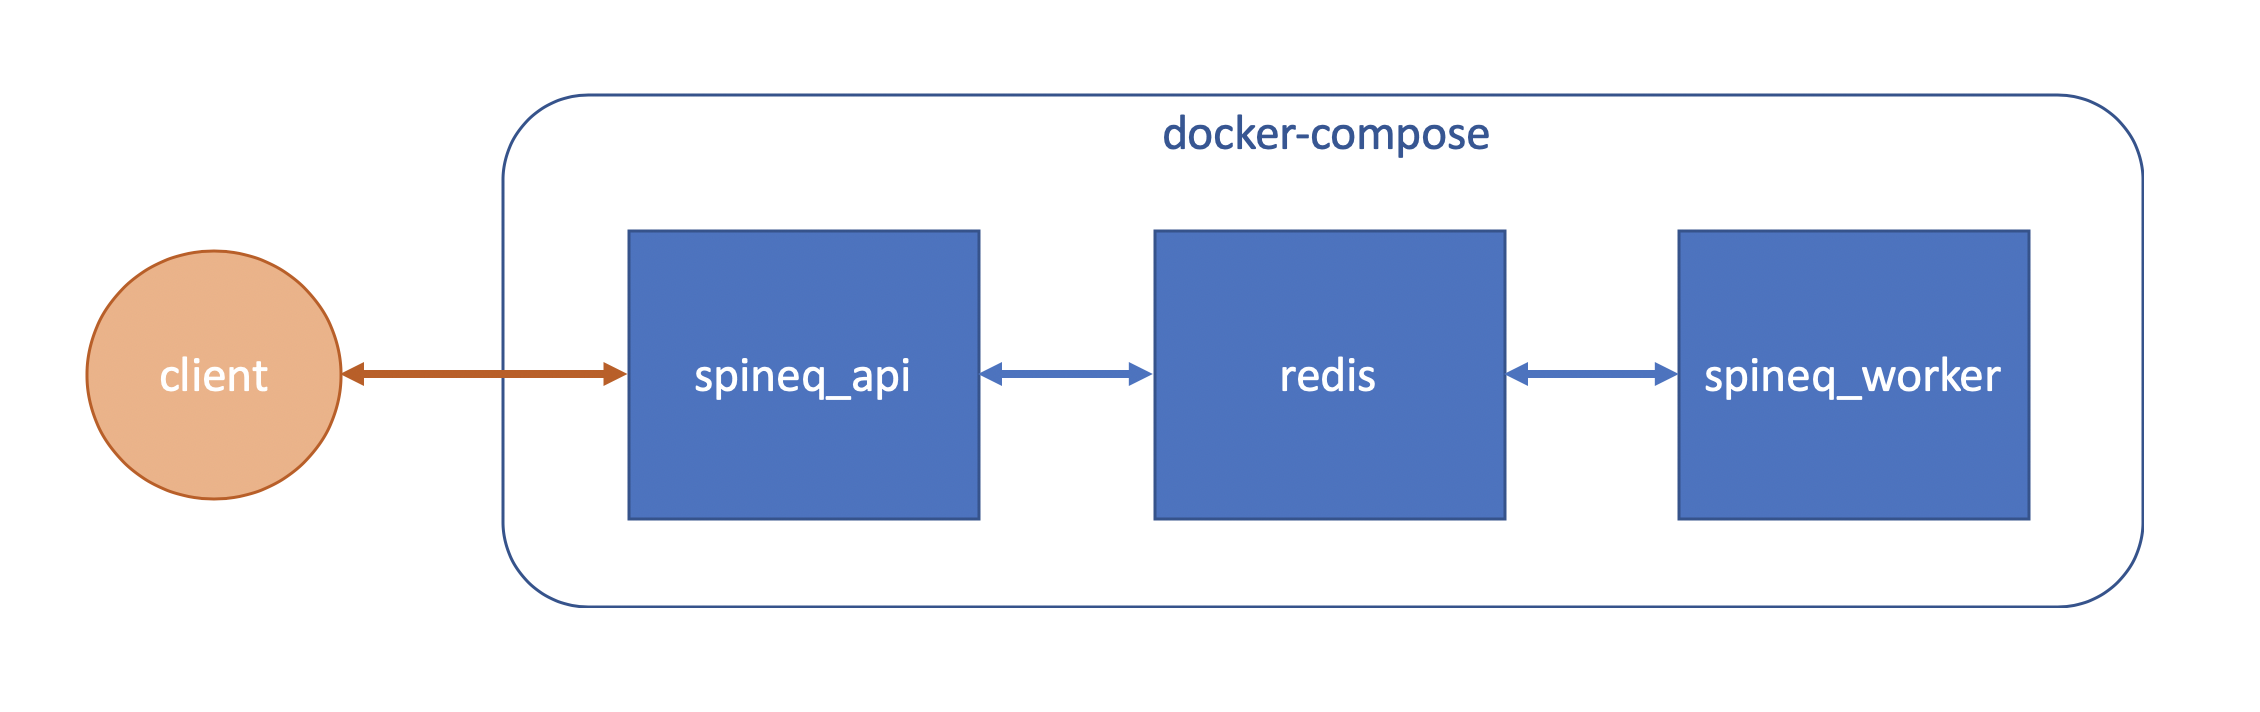
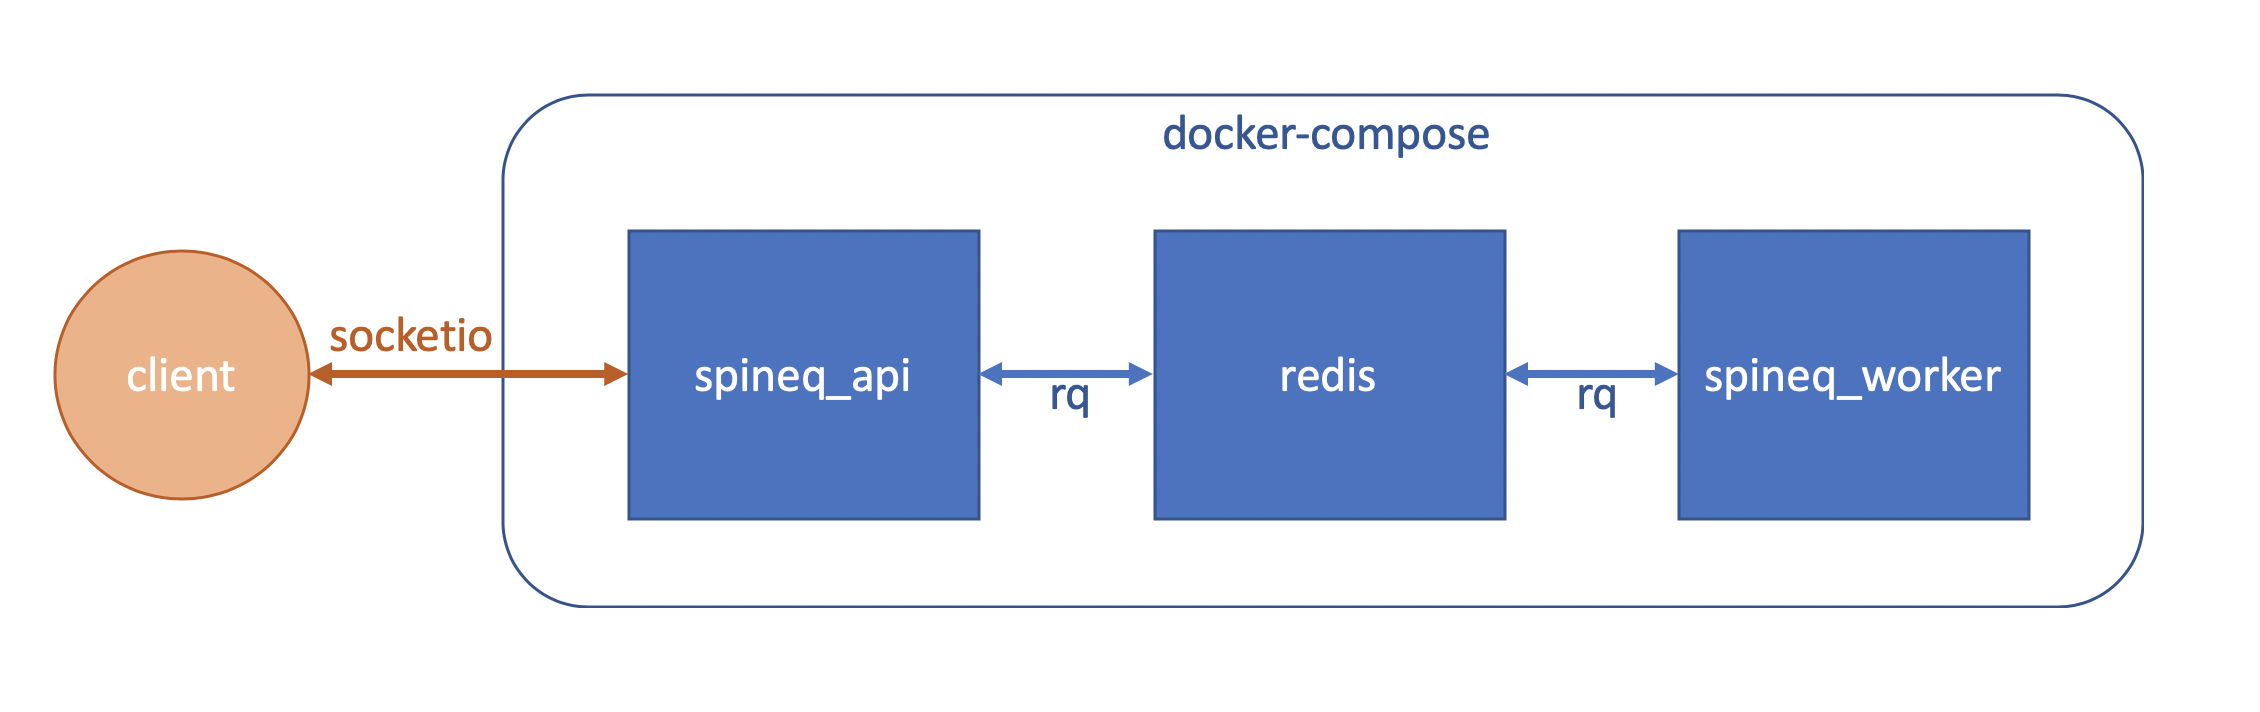
add files for docs

Changed region(s): [[0.0, 0.3399, 0.2168, 0.7107], [0.6814, 0.5253, 0.7124, 0.5871], [0.4646, 0.5253, 0.4956, 0.5871]]

diff --git a/notes/API.md b/notes/API.md
@@ -1,3 +1,13 @@
 # API Setup
 
 ![](container_diagram.png)
+
+* spineq_api
+  - Flask and Flask-SocketIO API.
+  - `api/app.py`
+
+* redis
+  - Redis server
+
+* spineq_worker
+  - `api/worker.py`

diff --git a/notes/Optimisation.md b/notes/Optimisation.md
@@ -1,0 +1,14 @@
+
+## Libraries
+
+### Genetic Algorithms
+
+* PyGMO
+
+* pymoo
+
+### Others
+
+* scipy
+
+* pytorch
